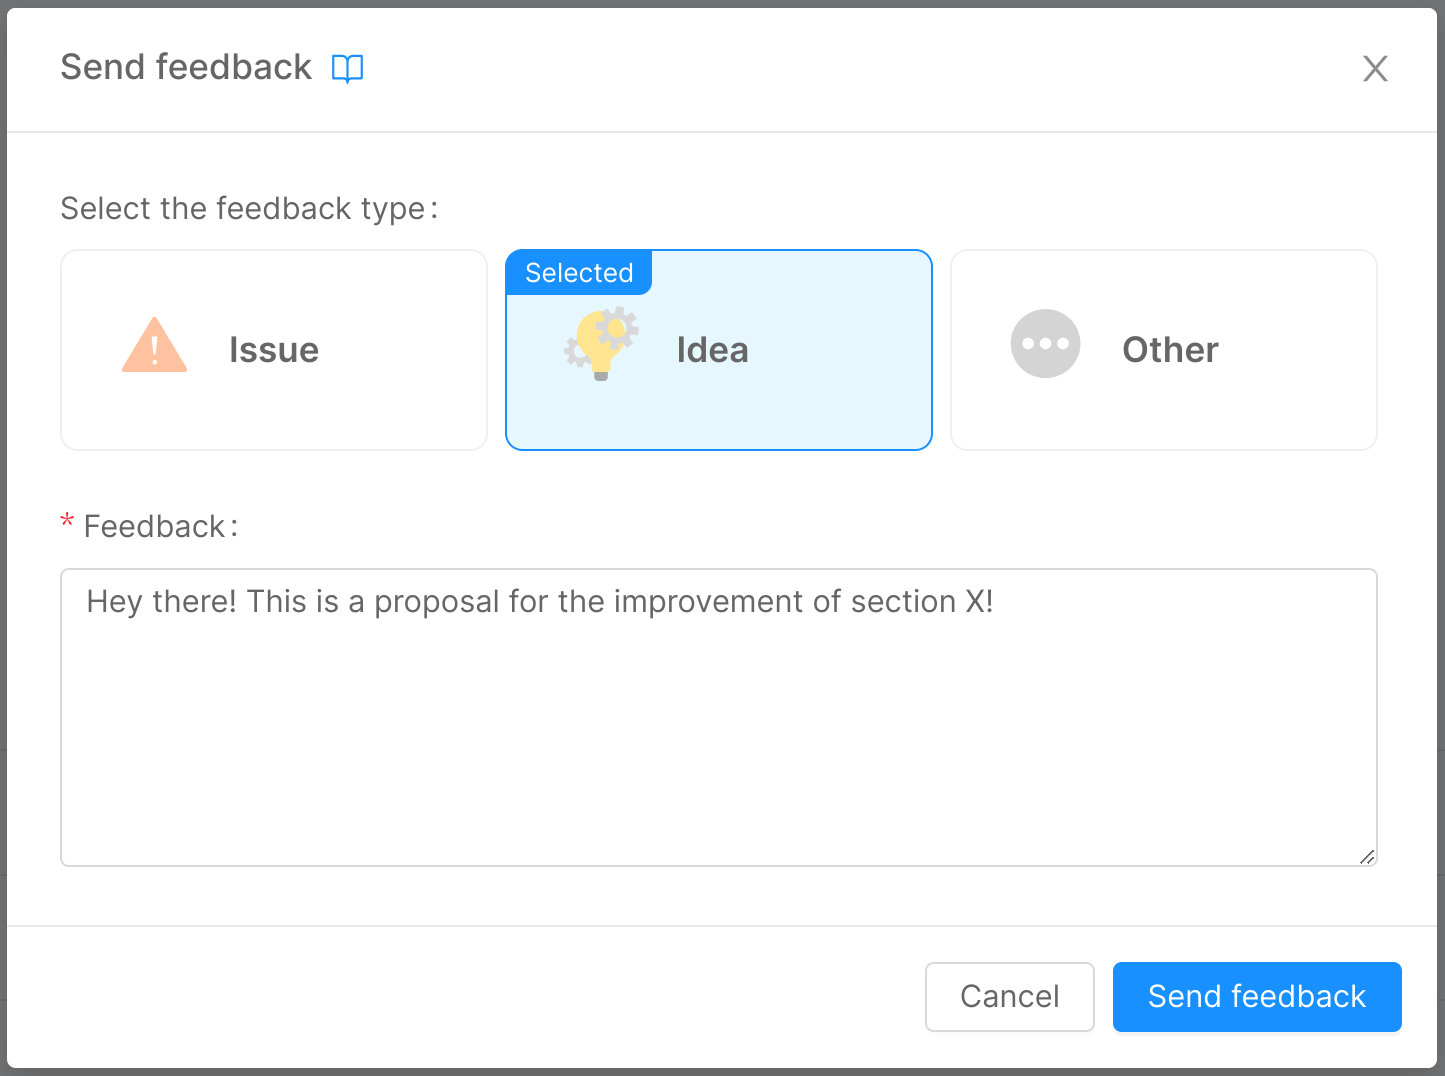
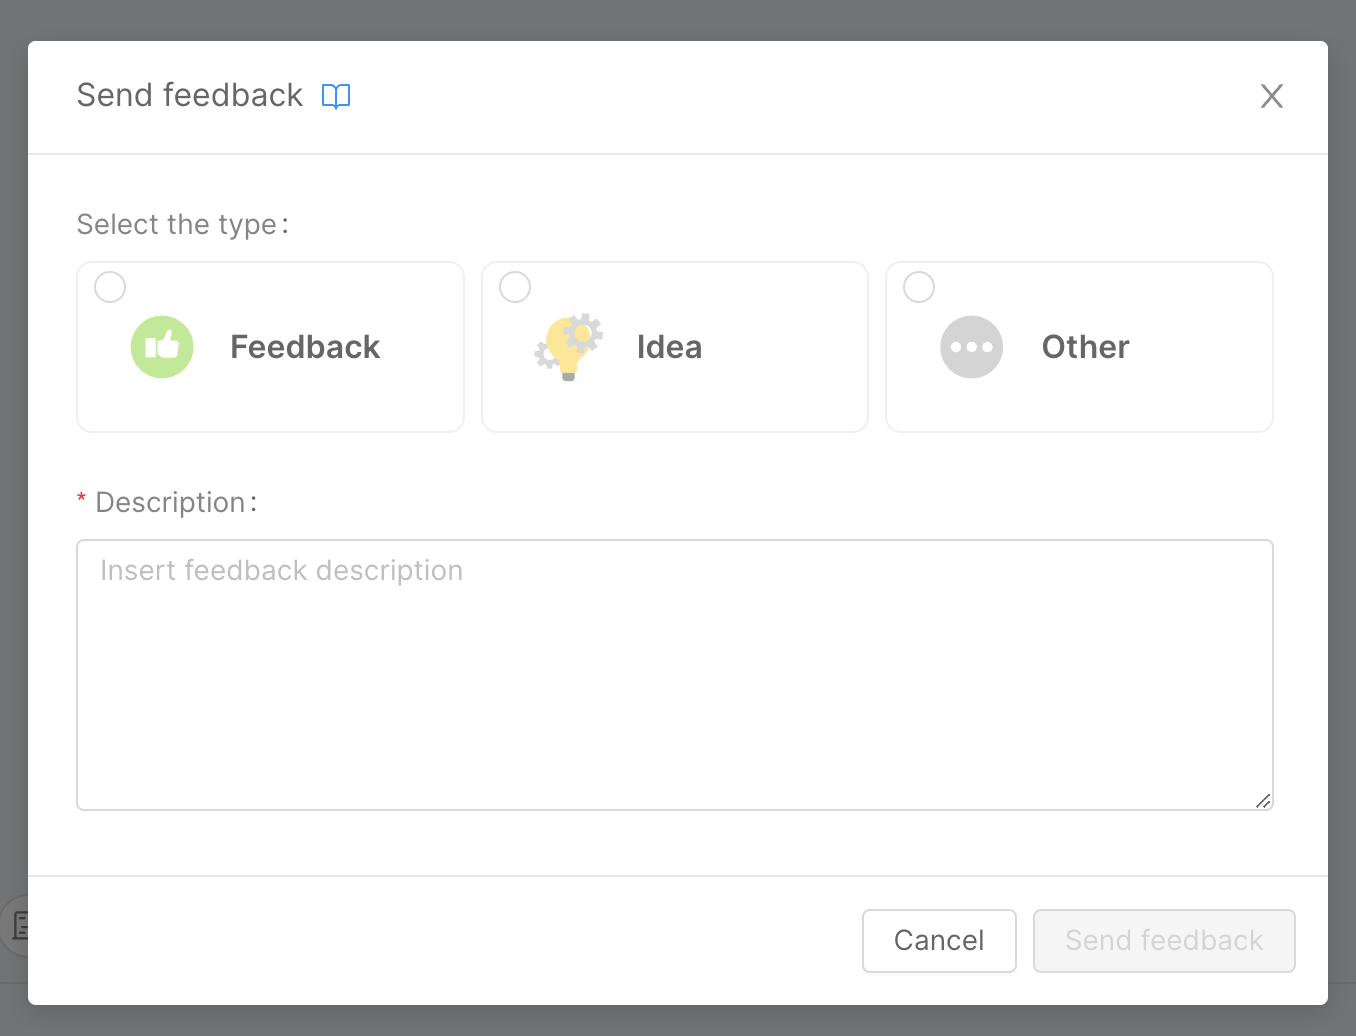
Feat: change feedback copy and screenshot (#677)
* add: user feedback documentation

* Update docs/development_suite/user-feedback/give-feedback.md

* added: how do you see feedback

* Update give-feedback.md

* Update give-feedback.md

* Update give-feedback.md

* Update give-feedback.md

* added: how do you see feedback

* added: how do you see feedback

* added: how do you see feedback

* Update give-feedback.md

* removed: unused images

* changed: copy from issue to feedback

* Update give-feedback.md

* Delete docs/development_suite/user-feedback/img/feedback-modal.png

* Add files via upload

* Update give-feedback.md

* fix: typo

---------

diff --git a/docs/development_suite/user-feedback/give-feedback.md b/docs/development_suite/user-feedback/give-feedback.md
@@ -15,17 +15,17 @@ For PaaS type customer every feedback will be collected directly from the Produc
 ![feedback button](./img/feedback-button.png)
 
 In any section or area of the Console by clicking on the respective feedback button on the main topbar you can access to the feedback modal, through which the user can choose the type of feedback to give:
-* **Issue**: feedback inherent to a bug or technical problem related to a feature of the Console. For example:
-  - By making changes A and B to the configuration, I get error C when saving.
-  - Page X does not scroll properly and thus has display problems on screens with a*b resolution.
-  - I followed the instructions in the documentation but nevertheless could not configure feature Y correctly.
+* **Feedback**: feedback related to a feature of the Console. For example:
+  - I find the user experience of a specific feature or section of the console confusing;
+  - A specific page scroll in a strange way;
+  - I followed the instructions in the documentation but nevertheless I could not configure feature Y correctly.
 * **Idea**: feedback of improvement of a feature of the Console, or proposed addition of new feature. For example:
-  - In section A, it would be helpful if information B was also shown.
-  - In section X, it would be useful to make information Y editable.
-  - It would be useful for entity Z to be managed through a specific section in Console.
+  - In section A, it would be helpful if information B was also shown;
+  - In section X, it would be useful to make information Y editable;
+  - It would be useful for entity Z to be managed through a specific section in Console;
 * **Other**: feedback of improvement of existing flows/processes, or suggestions that do not fall into the previous two categories. For example:
-  - In the creation flow of resource A, it would be more convenient to close the modal directly after loading instead of having to click the button at the end of the process.
-  - I noticed inconsistencies in the names used for resources within section B, it would be useful to adjust for more clarity.
+  - In the creation flow of resource A, it would be more convenient to close the modal directly after loading instead of having to click the button at the end of the process;
+  - I noticed inconsistencies in the names used for resources within section B, it would be useful to adjust for more clarity;
   - The X button to perform the Y action within the Z section is inconspicuous and in an unintuitive location, it would be helpful to enlarge and move it.
 
 ![feedback modal](./img/feedback-modal.png)
